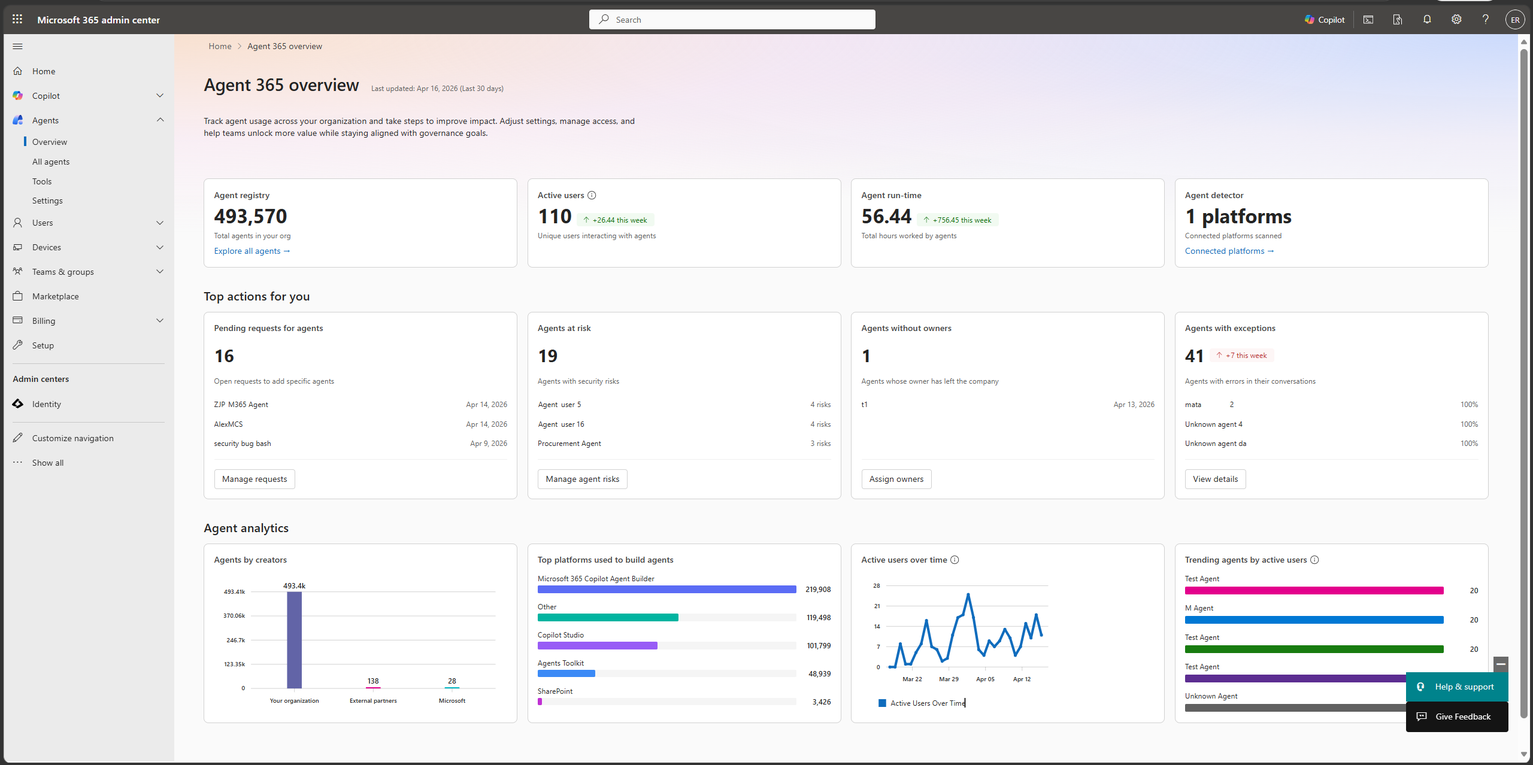
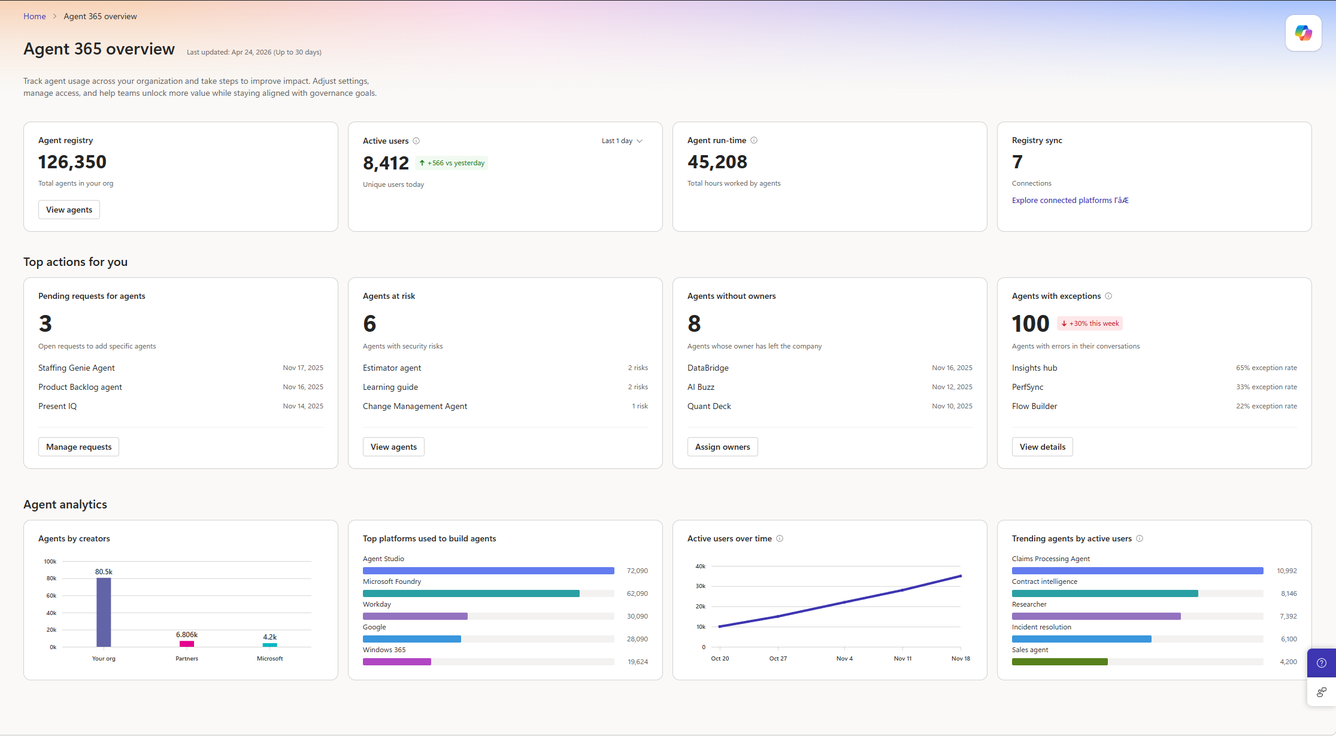
erikre-agents-11341543a4

diff --git a/microsoft-365/admin/manage/agent-365-overview.md b/microsoft-365/admin/manage/agent-365-overview.md
@@ -38,7 +38,7 @@ Agents are powerful AI companions that can handle a range of interactions and ta
 
 Agent governance involves using policies, settings, and admin actions to control how agents at your organization are accessed, published, deployed, and managed across your organization. When you apply an agent governance approach to managing agents, you ensure agents and the data they use remain secure and compliant.
 
-By using governance across your agent lifecycle, you help ensure agent adoption is consistent and safe. Governance ensures agents onboard intentionally, operate within guardrails, and are manage consistently from build through retirement.
+By using governance across your agent lifecycle, you help ensure agent adoption is consistent and safe. Governance ensures agents onboard intentionally, operate within guardrails, and are managed consistently from build through retirement.
 
 Organizations face significant challenges related to agent governance, including the following:
 - How to apply consistent governance policies across all agents, regardless of how or where they’re built.
@@ -52,7 +52,7 @@ The following capabilities help your organization confidently manage and govern 
 - **Bring agents under control from day one** - Onboard and approve agents through one IT controlled flow, applying policy templates to every agent for governance and compliance.
 - **Control what agents can access and do** - Enforce least privilege access by controlling which users, data, and tools agents can use and limit access to only the resources and other agents they need.
 - **Automate ongoing agent governance** - Leverage rules-based agent management to automatically enforce lifecycle policies, such as expiring inactive agents, flagging ownerless agents, or blocking risky agents.
-- **Be audit-ready from the start** - Strengthen visibility into how your agents are being used and how they are performing, helping you ensure they operate securely, comply with policies, and run reliably across your organization.
+- **Be audit-ready from the start** - Strengthen visibility into how your agents are being used and how they're performing, helping you ensure they operate securely, comply with policies, and run reliably across your organization.
 - **Reduce compliance and safety risks** - Establish data safety and compliance controls to detect, retain, and investigate unethical agent interactions.
 
 The Agent workload within [Microsoft 365 admin center](https://admin.microsoft.com/) allows you to view a summary of agents that you manage, deploy, and monitor at your organization. It provides usage and insights that help monitor agent adoption and governance. The Agent workload serves as the grounding control plane for all agents managed at your organization.
@@ -98,23 +98,23 @@ To ensure consistent interpretation across metrics and insights in the Agent ove
 - **Definition of an agent**
   An agent is defined as an AI-powered entity that can perform tasks or interactions autonomously or semi-autonomously using instructions, context, knowledge sources, and tools to accomplish user or organizational goals.
 - **Supported agent types and platforms**
-  The Agent overview includes agents built across supported Microsoft and connected platforms. This includes agents created using platforms surfaced in the ecosystem such as Copilot Studio and other Microsoft-supported creation tools, as well as applicable third-party agents detected through connected platforms. Specific platforms supported include: Microsoft Copilot Studio, SharePoint, Agent Builder, AI Foundry, Agents Toolkit, 1P (ex Researcher), and 3P Agentic platforms.
+  The Agent overview includes agents built across supported Microsoft and connected platforms. This includes agents created using platforms surfaced in the ecosystem such as Copilot Studio and other Microsoft-supported creation tools, as well as applicable non-Microsoft agents detected through connected platforms. Specific platforms supported include: Microsoft Copilot Studio, SharePoint, Agent Builder, AI Foundry, Agents Toolkit, and non-Microsoft Agentic platforms.
 
   > [!NOTE]
-  > The Agent Overview does not show all agent platforms in use, only the top 5 most used, to fit on the card. To see all agent platforms and associated agents, go to the **Registry** tab.
+  > The Agent Overview doesn't show all agent platforms in use, only the top 5 most used, to fit on the card. To see all agent platforms and associated agents, go to the **Registry** tab.
   
 - **Draft agent visibility**
   Agent counts and metrics primarily reflect agents that are discoverable within the tenant through governance and registry systems. Visibility of draft or unpublished agents may vary based on platform integration and governance state. 
 
   > [!NOTE]
-  > Currently, you can only view draft agents from Copilot Studio. Support for draft agents from other platforms, such Agent Builder, Foundry, and SharePoint, are not currently available.
+  > Currently, you can only view draft agents from Copilot Studio. Support for draft agents from other platforms, such Agent Builder, Foundry, and SharePoint, aren't currently available.
 
 - **System and Microsoft-built agents**
   Agent inventory includes Microsoft-built, partner-built, and custom (line-of-business) agents to provide a comprehensive view of the total agent footprint in the organization. 
 - **Platforms surfaced in Copilot Studio and ecosystem**
   Agent creation platforms represented in the overview include Microsoft-native tools (such as Copilot Studio, Agent Builder, and others) along with any external or third-party platforms detected and integrated into the agent registry. 
 - **Data consistency across sources (Registry vs. analytics systems)**
-  Metrics in the Agent overview are derived from multiple underlying systems (such as the Agent Registry and usage analytics pipelines). Minor variances may occur due to differences in ingestion timing, update frequency, and system-specific processing. These variances are expected and do not impact overall directional insights.
+  Metrics in the Agent overview are derived from multiple underlying systems (such as the Agent Registry and usage analytics pipelines). Minor variances may occur due to differences in ingestion timing, update frequency, and system-specific processing. These variances are expected and don't impact overall directional insights.
 
 View access to the agent **Overview** doesn't grant permission to install, modify, or manage agents. Administrative actions continue to be governed by role-based access controls aligned with agent installation and consent workflows. For more information about roles and permissions, see [Agent management roles and permissions in Microsoft 365 admin center](agent-roles-perms.md).
 
@@ -130,7 +130,7 @@ The following table describes each type of agent:
 | **MCS CEA** | A Microsoft Copilot Studio Custom Engine Agent (MCS CEA) is designed using more precise settings and capabilities using Copilot Studio. The agents can be published based on channel and approved by the administrator within Microsoft 365 admin center. |
 | **MCS BP** | A business process (BP) agent, created with Microsoft Copilot Studio, is a sequence of tasks, decisions, and interactions often implemented to use automation. |
 | **Foundry LOB** | A Foundry LOB agent is create using Microsoft Foundry. This is a Line-of-Business (LOB) agent that has been created in-house (within your organization) for a specific business scenario.  |
-| **Foundry non-LOB** | A Foundry non-LOB agent is creatde using Microsoft Foundry, however it is not tied to a specific business workflow. |
+| **Foundry non-LOB** | A Foundry non-LOB agent is created using Microsoft Foundry, however it isn't tied to a specific business workflow. |
 | **Foundry hosted** | A Foundry hosted agent is created, stored, and run inside the Foundry platform. |
 | **Agent Builder** | An Agent Builder agent is a declarative agent that has been created using Agent Builder within Copilot. |
 | **SharePoint** | A SharePoint agent is a declarative agent that has been created using SharePoint. This type of agent typically uses organizational knowledge hosted on SharePoint. |
@@ -143,13 +143,14 @@ For more information about agent types, see [Data & tools by agent type](agent-d
 
 ### Hero metrics for agent impact
 
-Hero metrics provide a high-level summary of the most critical indicators of agent scale and engagement. 
+Hero metrics provide a high-level summary of the most critical indicators of agent scale and engagement.
 
-- **Agent registry** - The total count of all agents available in your organization's catalog, including Microsoft-built, partner-built, and custom "line-of-business" agents. In both registry and usage we refer to these types of agents as "Built by your organization". This Agent registry reflects the breadth of agents deployed across your tenant. In the **Agent overview**, you can select **Explore All agents** > **Registry** to view your inventory in detail.
-- **Active users** - The number of unique users who interacted with at least one agent up to the last 30 days. If a user interacts at least once with one agent in the last 30 days, they're considered an active user.
-  - This metric begins when your organization activates Agent 365 licenses, so it may reflect fewer than 30 days of data immediately after activation. As activity accumulates, the metric will progressively reflect a fuller 30-day view.
+- **Agent registry** - The total count of all agents available in your organization's catalog, including Microsoft-built, partner-built, and custom "line-of-business" agents. In both registry and usage, we refer to these types of agents as "Built by your organization". This Agent registry reflects the breadth of agents deployed across your tenant. In the **Agent overview**, you can select **Explore All agents** > **Registry** to view your inventory in detail.
+- **Active users** - The number of unique users who interacted with at least one agent up to the last 30 days by sending a prompt to an agent and receiving a response from that agent. These conversational interactions can occur in Microsoft experiences, such as Teams and Microsoft Copilot, as well as non-Microsoft channels. For Microsoft Copilot Studio agents, an active user is counted when a user sends a prompt to the agent. In most cases, prompts and responses have a one-to-one relationship. However, there are limited scenarios where a user may send a prompt but not receive a response. This difference is expected to have a minimal impact in practice. This definition will evolve in the future as we continue to improve how usage is measured.
+  - This metric begins when your organization activates Agent 365 licenses. It may reflect fewer than 30 days of data immediately after activation. As activity accumulates, the metric will progressively reflect a fuller 30-day view.
   - Data collection starts at license activation.
 - **Agent run-time** - Total hours worked by agents during the last 30 days, calculated as the sum of each agent session's duration (end time minus start time).
+  - This metric begins when your organization activates Agent 365 licenses, so it will reflect fewer than 30 days of data immediately after activation. As activity accumulates, the metric will progressively reflect a fuller 30-day view.
 - **Agent registry sync** - The external connected platforms that were scanned. You can connect to external platforms to find and monitor agents used in your organization. Your use of external non-Microsoft products is subject to the third-party service provider's terms of use. You're responsible for complying with each provider's terms of use.
 
 ## Top actions for you
@@ -171,32 +172,37 @@ These governance actions are surfaced through the following key views:
 Selecting any of these options navigates to filtered views within the Agent Registry, where administrators can take corrective action.
 
 > [!IMPORTANT]
-> Important governance actions such as approving agent requests or assigning ownership can only be performed by users in the **AI Administrator** or **Global Administrator** roles. Other roles can monitor governance gaps but cannot take administrative action.
+> Important governance actions such as approving agent requests or assigning ownership can only be performed by users in the **AI Administrator** or **Global Administrator** roles. Other roles can monitor governance gaps but can't take administrative action.
 
 View actionable governance cards that display urgent tasks for you (the administrator) to maintain compliance. These cards help you quickly identify and resolve governance gaps.
 
-- **Pending Requests for Agents** - See the total number of agent requests awaiting admin approvals within the last 30 days. The card lists the three oldest pending requests, prioritized by newest first. It also displays the delta badge next to the key metric to highlight week-over-week change in the total requests. To take immediate action, select **Manage requests**. This selection navigates to the **Agent Registry** > **Requests** tab. This tab lists all pending agent requests submitted by users within your organization.
-- **Agents at risk** - View the total number of agents with security risks. Select **Manage agent risks** to view agents filter by risk in the **Agent Registry**. 
+- **Pending Requests for Agents** - See the total number of agent requests awaiting admin approvals. The card lists three pending requests, prioritized by newest first. To take immediate action, select **Manage requests**. This selection navigates to the **Agent Registry** > **Requests** tab. This tab lists all pending agent requests submitted by users within your organization.
+- **Agents at risk** - View the total number of agents with security risks. These are aggregated high severity risks across Microsoft security platforms such as Microsoft Entra, Microsoft Defender, and Microsoft Purview. It closes a critical visibility gap for IT administrators responsible for governing AI agents. Select **Manage agent risks** to view agents filter by risk in the **Agent Registry**.
 - **Agents without owners** - View the total number of agents without an assigned owner and still pending owner assignment. Select **Assign Owner** to view a list of agents filtered by **Agents without owners**.
 - **Agent with exceptions** - View the total number of agents with errors in their conversations. Select **View details** to view a list of agents filtered by agents with errors.
+  - This metric begins when your organization activates Agent 365 licenses. It will reflect fewer than 30 days of data immediately after activation. As activity accumulates, the metric will progressively reflect a fuller 30-day view.
  
 ## Agent analytics
 
 Get detailed insights into how agents are distributed and used. This information helps administrators understand if a specific platform is being used, and if an agent is spiking in usage, to assure it’s compliant and managed, so as to mitigate risk.
 
-- **Agents by creators** - View a breakdown of all agents in your inventory by their source of publisher type, such as who created and shared the agent. There are four categories:
-  - **Your organization** - Agents that your organization created and published. These agents can be shared by the creator or used only by the creator.
+- **Agents by creators** - View a breakdown of all agents in your inventory by their source of publisher type, such as who created and shared the agent. There are three categories:
+  - **Your organization** - Agents that your organization created and published. These agents can be shared by the creator or used only by the creator. This group also contains counts for "your users", which are agents created by members of your organization. These agents can be shared by those members of your organization, or used only by them.
   - **Third Party** - Agents created by external partners.
   - **Microsoft** - Agent created by Microsoft.
-  - **Your users** – Agents created by members of your organization. These agents can be shared by those members of your organization, or used only by them.
-- **Top platforms used to build agents** - See which creation platforms are most used for building agents. The following MSFT platforms are covered in A365:
+- **Top platforms used to build agents** - See which creation platforms are most used for building agents. The following MSFT platforms are covered in Agent 365 (A365):
   - Microsoft 365 Copilot Agent Builder
   - Copilot Studio
   - Agents Toolkit
   - SharePoint
-  - Microsoft Foundry
-  - Other - **NOTE**: 'Other' is used to indicate an unknown platform.
-  - Third party platforms will also display in this card if there are third party agents in your registry.
-- **Active users over time** - View a trend chart that shows daily active user engagement with agents over the last 30 days. This chart reveals usage momentum and helps you spot spikes or declines.
-- **Trending agents by active users** - You can view the agents with the most active users in your organization over the last 30 days.
+  - Microsoft Foundry - **NOTE**: Currently, analytics only support Microsoft Foundry V2 agents.
+  - Other - **NOTE**: **Other** is used to indicate an unknown platform. **Other** also includes Microsoft, External, and LOB agents when the metadata field for **Platforms** is blank for those agents.
+  - Non-Microsoft platforms will also display in this card if there are non-Microsoft agents in your registry.
 
+  > [!NOTE]
+  > New agent platforms will be regularly be added, thus this list will continue to grow.
+
+- **Active users over time** - View a trend chart that shows daily active user engagement with agents over the last 30 days. This chart reveals usage momentum and helps you spot spikes or declines.
+  - This metric begins when your organization activates Agent 365 licenses, so it will reflect fewer than 30 days of data immediately after activation. As activity accumulates, the metric will progressively reflect a fuller 30-day view.
+- **Trending agents by active users** - You can view the agents with the most active users in your organization over the last 30 days.
+  - This metric begins when your organization activates Agent 365 licenses, so it will reflect fewer than 30 days of data immediately after activation. As activity accumulates, the metric will progressively reflect a fuller 30-day view.

diff --git a/microsoft-365/admin/manage/agent-details.md b/microsoft-365/admin/manage/agent-details.md
@@ -67,20 +67,21 @@ The following table provides agent tabs based on agent capability:
 
 | Agent tab | Description |
 |---|---|
-| **[Overview](#agent-overview-tab)** | This tab provides a description, instructions, status, and other general details about the agent. |
-| **[Users](#agent-users-tab)** | This tab allows you to view and select the allowed users that the agent has been published to. |
+| **[Details](#agent-details)** | This tab provides a description, instructions, status, and other general details about the agent. |
+| **[Users](#agent-users)** | This tab allows you to view and select the allowed users that the agent has been published to. |
 | **[Data & Tools](#agent-data--tools)** |  This tab provides details about Microsoft Purview protections, such as capabilities, knowledge sources, and tools available to the agent. Also, provides Microsoft Entry   protection details, such as Agent User ID and Agent ID. |
 | **[Security](#agent-security)** | This tab provides details about monitoring agent activity, protecting sensitive   data, and evaluating compliance gaps. |
 | **[Permissions](#agent-permissions)** | This tab allows you to review and grant permission to data the agent can access and perform actions on. For more information, see [Agent permissions](#agent-permissions). |
-| **[Connect Agents](#connected-agents-tab)** | This tab allows you to connect the selected agent with other agents. When using the selected agent, users can get additional information and answers from the connected agents. You can connect up to 10 agents to the selected agent, excluding those added by the agent's maker. Depending on how the agent maker connected the agents, you may be able to remove them as well. You must make sure the connected agents are available to everyone who needs access. |
-| **[Custom tools & knowledge](#custom-tools--knowledge-tab)** | This tab helps you extend the selected agent by copying the skills and knowledge from up to one other agent. When you select an agent to extend from, the skills and knowledge from   that agent will be available in the selected agent. |
-| **[Computer use](#computer-use-tab)** | This tab is used to allow the selected agent to perform action on behalf of the users and also access work data. Additionally, you can choose which websites are   allowed for **Computer use**. Note that Web search is required for **Computer use**. |
+| **[Activity](#agents-activity)** | This tab allows you to connect the selected agent with other agents. When using the selected agent, users can get additional information and answers from the connected agents. You can connect up to 10 agents to the selected agent, excluding those added by the agent's maker. Depending on how the agent maker connected the agents, you may be able to remove them as well. You must make sure the connected agents are available to everyone who needs access. |
+| **[Connect Agents](#connected-agents)** | This tab allows you to connect the selected agent with other agents. When using the selected agent, users can get additional information and answers from the connected agents. You can connect up to 10 agents to the selected agent, excluding those added by the agent's maker. Depending on how the agent maker connected the agents, you may be able to remove them as well. You must make sure the connected agents are available to everyone who needs access. |
+| **[Custom tools & knowledge](#custom-tools--knowledge)** | This tab helps you extend the selected agent by copying the skills and knowledge from up to one other agent. When you select an agent to extend from, the skills and knowledge from   that agent will be available in the selected agent. |
+| **[Computer use](#computer-use)** | This tab is used to allow the selected agent to perform action on behalf of the users and also access work data. Additionally, you can choose which websites are   allowed for **Computer use**. Note that Web search is required for **Computer use**. |
 
-## Agent overview tab
+## Agent details
 
-The **Overview** tab provides details about the agent's intended purpose. This tab contains the agent's description, instructions, publish status, availability, publisher, deployment, agent type, channel, platform, last updated, sensitivity, and version. Use this tab to assess the agents general capabilities and state.
+The **Details** tab provides details about the agent's intended purpose. This tab contains the agent's description, instructions, publish status, availability, publisher, deployment, agent type, channel, platform, last updated, sensitivity, and version. Use this tab to assess the agents general capabilities and state.
 
-## Agent users tab
+## Agent users
 
 You can control how agents created in your organization are made available across your organization. You can configure the following agent availability options: 
 
@@ -116,68 +117,6 @@ To set an individual agent's availability and installation settings, use the fol
    - All users in the organization can install
    - Specific users/groups can install
 1. Select **Update** to save these settings.
-
-## Agent permissions
-
-In the Microsoft 365 admin center, when granting permissions to agents, consider two types of permissions:
-
-- **Application Permissions**
-- **Delegated Permissions**
-
-Each permission type grants different actions that agents can perform on behalf of users, depending on the scope of the access. This section explains these two types of permissions and provides an overview of the common permissions available.
-
-### Application Permissions
-
-**Application Permissions** let the agent access data and perform actions without requiring a user to sign in. These permissions let agents do tasks without needing a user to be signed in, like reading directory data, managing teams, or sending messages.
-
-Key features of application permissions:
-
-- **No user context required** - The agent can operate without an active user session.
-- **Wide-reaching capabilities** - Agents with application permissions can act at the organizational level, allowing access to a large range of data.
-- **Administrator consent required** - Administrator consent is typically required for granting application permissions.
-
-#### Common Application Permissions
-
-| Permission | Details |
-| --- | ---|
-| **Group.Read.All** | Read all groups in the organization. |
-| **TeamsActivity.Send** | Send a teamwork activity to any user. |
-| **RoleManagement.Read.Directory**| Read all directory role-based access control (RBAC) settings. |
-| **User.Read.All** | Read all users' full profiles. |
-| **Team.ReadBasic.All** | Get a list of all teams in the organization. |
-
-### Delegated Permissions
-
-**Delegated Permissions** allow the agent to act on behalf of a user when the user is signed in. These permissions provide access to user-specific data and allow agents to perform actions in the context of a particular user.
-
-Use delegated permissions for applications where the agent interacts directly with the user's data or takes actions on their behalf.
-
-#### Key features of delegated permissions
-
-- **User context required** - The agent performs actions with the signed-in user's permission.
-- **Granular access** - These permissions are typically more restricted, limiting access to only the user's data.
-- **User consent might be required** - Depending on the permissions, users might need to grant consent for the application to act on their behalf.
-
-#### Common delegated permissions
-
-| Permission | Details |
-| --- | --- |
-| **User.ReadBasic.All** | Read all users' basic profiles. |
-| **TeamsActivity.Send** | Send a teamwork activity to any user. |
-| **RoleManagement.Read.Directory** | Read all directory role-based access control (RBAC) settings. |
-| **User.Read.All** | Read all users' full profiles. |
-| **Team.ReadBasic.All** | Get a list of all teams. |
-
-### View permissions of an agent
-
-You can find the details of all types of permissions in the **Permissions** tab on the agent details page.
-
-1. Sign in to the [Microsoft 365 admin center](https://admin.microsoft.com/).
-1. In the left navigation pane, select **Agents** > **All Agents** > **Registry**.
-1. Select a deployed agent from the list.
-1. In the agent details pane that opens, select the **Permissions** tab to view all the permissions granted to the agent.
-
-    :::image type="content" source="../../media/agents/agent-permissions.png" alt-text="Screenshot showing the Permissions tab on the agent details page in the Microsoft 365 admin center." lightbox="../../media/agents/agent-permissions.png":::
 
 ## Agent data & tools
 
@@ -297,17 +236,140 @@ Protection for sensitive data helps prevent leaks and oversharing. You can view 
 
 If the selected agent has an AI baseline assessment available, you can evaluate compliance gaps for your agent. For more information, see [Microsoft Purview Compliance Manager](/purview/compliance-manager).
 
-## Connected agents tab
+## Agent permissions
 
-The **Connected Agents** tab allows you to connect the selected agent with other agents. When using the selected agent, users can get additional information and answers from the connected agents. You can connect up to 10 agents to the selected agent, excluding those added by the agent's maker. Depending on how the agent maker connected the agents, you may be able to remove them as well. You must make sure the connected agents are available to everyone who needs access.
+In the Microsoft 365 admin center, when granting permissions to agents, consider two types of permissions:
 
-### Add connected agents to an existing agent
+- **Application Permissions**
+- **Delegated Permissions**
+
+Each permission type grants different actions that agents can perform on behalf of users, depending on the scope of the access. This section explains these two types of permissions and provides an overview of the common permissions available.
+
+### Application Permissions
+
+**Application Permissions** let the agent access data and perform actions without requiring a user to sign in. These permissions let agents do tasks without needing a user to be signed in, like reading directory data, managing teams, or sending messages.
+
+Key features of application permissions:
+
+- **No user context required** - The agent can operate without an active user session.
+- **Wide-reaching capabilities** - Agents with application permissions can act at the organizational level, allowing access to a large range of data.
+- **Administrator consent required** - Administrator consent is typically required for granting application permissions.
+
+#### Common Application Permissions
+
+| Permission | Details |
+| --- | ---|
+| **Group.Read.All** | Read all groups in the organization. |
+| **TeamsActivity.Send** | Send a teamwork activity to any user. |
+| **RoleManagement.Read.Directory**| Read all directory role-based access control (RBAC) settings. |
+| **User.Read.All** | Read all users' full profiles. |
+| **Team.ReadBasic.All** | Get a list of all teams in the organization. |
+
+### Delegated Permissions
+
+**Delegated Permissions** allow the agent to act on behalf of a user when the user is signed in. These permissions provide access to user-specific data and allow agents to perform actions in the context of a particular user.
+
+Use delegated permissions for applications where the agent interacts directly with the user's data or takes actions on their behalf.
+
+#### Key features of delegated permissions
+
+- **User context required** - The agent performs actions with the signed-in user's permission.
+- **Granular access** - These permissions are typically more restricted, limiting access to only the user's data.
+- **User consent might be required** - Depending on the permissions, users might need to grant consent for the application to act on their behalf.
+
+#### Common delegated permissions
+
+| Permission | Details |
+| --- | --- |
+| **User.ReadBasic.All** | Read all users' basic profiles. |
+| **TeamsActivity.Send** | Send a teamwork activity to any user. |
+| **RoleManagement.Read.Directory** | Read all directory role-based access control (RBAC) settings. |
+| **User.Read.All** | Read all users' full profiles. |
+| **Team.ReadBasic.All** | Get a list of all teams. |
+
+### View permissions of an agent
+
+You can find the details of all types of permissions in the **Permissions** tab on the agent details page.
+
+1. Sign in to the [Microsoft 365 admin center](https://admin.microsoft.com/).
+1. In the left navigation pane, select **Agents** > **All Agents** > **Registry**.
+1. Select a deployed agent from the list.
+1. In the agent details pane that opens, select the **Permissions** tab to view all the permissions granted to the agent.
+
+    :::image type="content" source="../../media/agents/agent-permissions.png" alt-text="Screenshot showing the Permissions tab on the agent details page in the Microsoft 365 admin center." lightbox="../../media/agents/agent-permissions.png":::
+
+## Agent certification
+
+The **Certification** tab provided in the agent's details pane in the Microsoft 365 admin center gives you a single place to review the trust and attestation signals that are available for the selected agent before you deploy the agent across your organization. For Microsoft-built agents and agents from external publishers, this tab surfaces the publisher attestation provided by the agent's developer, along with any Microsoft 365 Certification status that's been earned through Microsoft's app certification program. Publisher attestation captures the developer's self-reported information about how the agent handles data, security, and compliance. Microsoft 365 Certification reflects an independent security and compliance assessment that's valid for 12 months and helps confirm that the agent meets Microsoft's standards for handling tenant data. By reviewing the **Certification** tab alongside the **Overview**, **Data & tools**, and **Security** tabs, you can make an informed governance decision for the agent, where you can approve, deploy, block, or remove the agent. Your decision may largely be based on who built the agent, what it has been validated against, and the level of trust the publisher has documented.
+
+## Agent activity
+
+The **Activity** tab displayed in the agent details of the Microsoft 365 admin center gives you a focused view of how a single agent is being used and how it's performing across the tenant. By default, the metrics on this tab reflect the last 30 days, and you can adjust the date range to scope the view to a different time window. 
+
+Additional details include the following:
+- **Active users** - The number of unique users who interacted with the agent at least once during the selected date range. A user counts as active after a single interaction, regardless of how many times they engage with the agent.
+- **Sessions** - The total count of complete agent invocations in which the agent performed a task, answered a query, or completed an interaction during the selected date range. A session represents one end‑to‑end instance of agent activity initiated by a trigger (such as an email, chat, or @mention) and includes all actions until the session ends.
+- **Exceptions** - The percentage of sessions in the selected date range that completed without errors—that is, where the agent successfully finished the intended task. This metric helps administrators spot reliability issues and investigate agents that are failing to complete work as expected.
+- **Agent run-time** -  The total agent‑assisted time over the selected date range, calculated as the sum of each session's duration (end time minus start time). Use this metric to gauge the overall workload an agent is carrying on behalf of users.
+
+Snapshots provide agent activity:
+- Active users over time
+- Sessions over time
+- Active users
+  - User principal name
+  - Total sessions
+  - Last activity date (UTC)
+
+> [!NOTE]
+> The **Active users** table can be exported to a CSV file. The table also supports pagination.
+
+These signals let you monitor, adoption, measure impact, and identify agents that need your attention. Agent that need your attention may include high excpetion raties, low active-users counts, and long run-times. Activity metrics are currently supported for Microsoft 365 Copilot Agent Builder, SharePoint, and Microsoft 365 Agents Toolkit agent types.
+
+## Agent instances
+
+The **Instances** tab provides a table of instances of the agent across environments. 
+
+The table provides the following columns:
+- Name
+- Email
+- Status
+- Risks
+- Total sessions
+- Owner
+
+## Connected agents
+
+The **Connected Agents** tab allows you to connect the selected agent with other agents. When using the selected agent, users can get additional information and answers from the connected agents. You can connect up to 10 agents to the selected agent, excluding those added by the agent's maker. Depending on how the agent maker connected the agents, you may be able to remove them as well. 
+
+> [!IMPORTANT]
+> You must make sure the connected agents are available to everyone who needs access.
+
+The **Connected agents** tab provides a table of agents that are currently connected.
+
+### Add a connected agent
+
+1. Sign in to the [Microsoft 365 admin center](https://admin.microsoft.com).
+1. Navigate to **Agents** > **All agents** > **Registry**.
+1. Select an agent from the **Registry** list.
+  The agent details will be displayed.
+1. Select the **Connected agents** tab.
+1. Select **Connect agents**.
+1. Using the search box, add the name of the agent to connect.
+1. Select the check-box next to the agent.
+1. Select **Save**.
+
+## Custom tools & knowledge
 
 
 
-## Custom tools & knowledge tab
 
-## Computer use tab
+
+## Computer use
+
+
+
+
+
 
 ## Manage agents with embedded file content as a knowledge source
 
